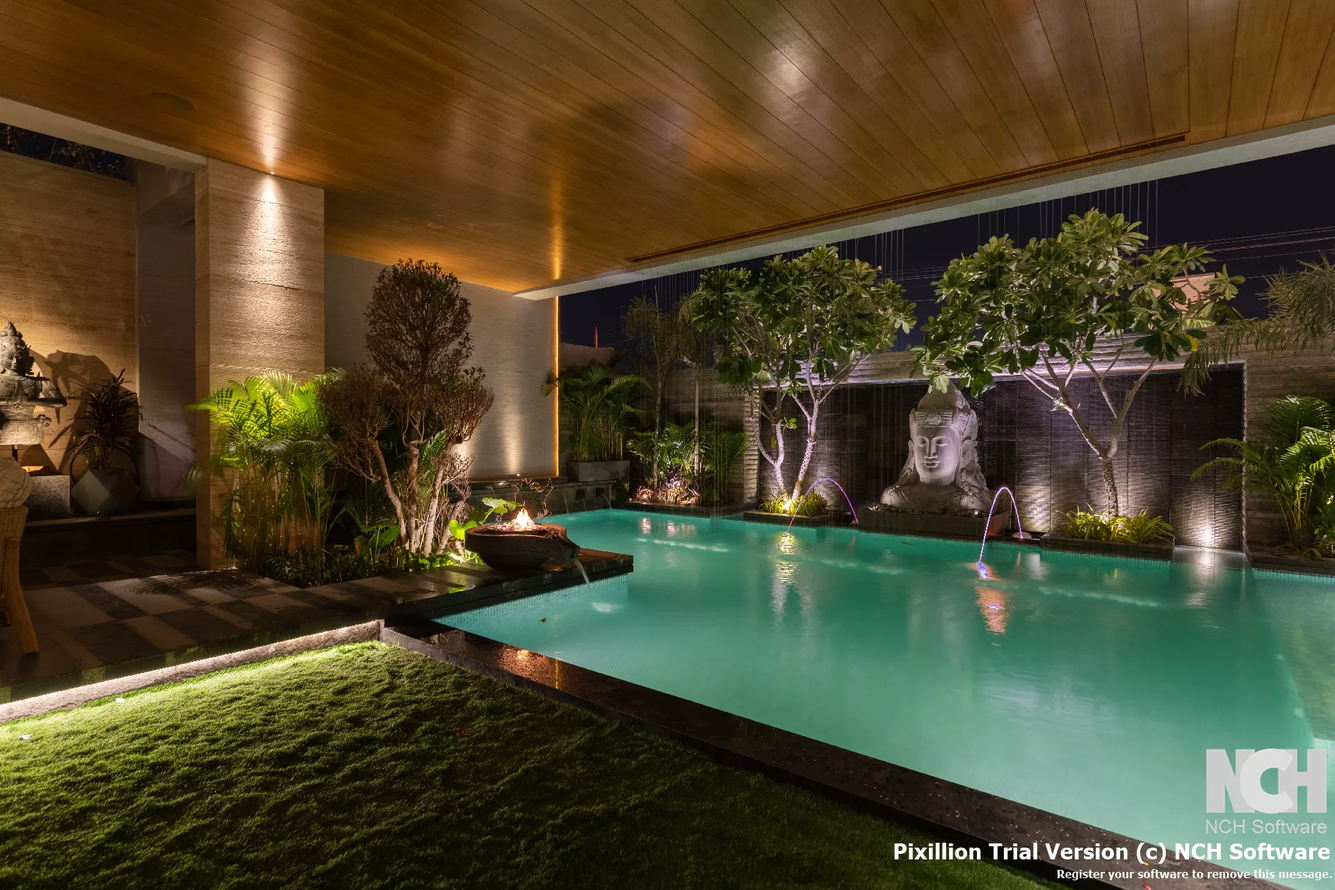
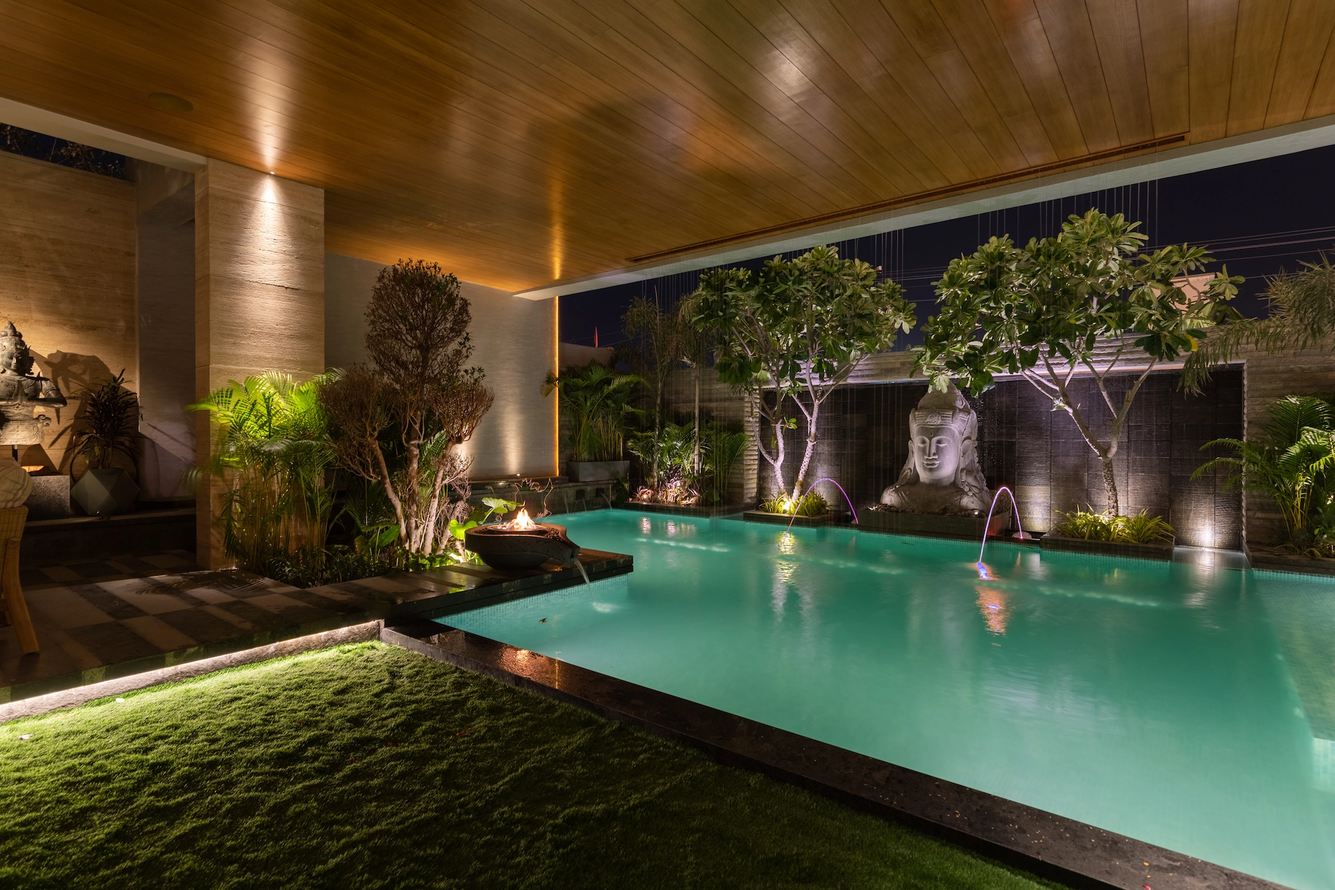
Photos update

diff --git a/components/ProjectsSection.tsx b/components/ProjectsSection.tsx
@@ -15,7 +15,7 @@ const projectData = [
     category: 'Luxury Residences', 
     status: 'Completed',
     description: 'A masterclass in spatial fluidity, this residence blurs the boundaries between interior sanctuaries and curated exterior landscapes. Native planting and climate-responsive shading ensure a serene, timeless habitat.',
-    image: "/images/projects/Elysian Heaven (1).webp",
+    image: "/images/projects/Elysian Heaven (2).webp",
   },
   { 
     title: 'Classic Oasis', 
@@ -23,7 +23,7 @@ const projectData = [
     category: 'Luxury Residences', 
     status: 'Completed',
     description: 'Rooted in classical proportions, this dwelling orchestrates a dialogue between monumental materiality and delicate softscapes. Water features and indigenous flora create a deeply restorative environment.',
-    image: 'https://images.unsplash.com/photo-1600210492486-724fe5c67fb0?q=80&w=2574&auto=format&fit=crop',
+    image: "/images/projects/Classic Oasis (21).webp",
   },
   { 
     title: 'Opulent Nest', 
@@ -31,7 +31,7 @@ const projectData = [
     category: 'Luxury Residences', 
     status: 'Completed',
     description: 'An exploration of refined tactility and light, where expansive glazing invites the surrounding ecology into the living experience. The design champions passive cooling and seamless indoor-outdoor integration.',
-    image: 'https://images.unsplash.com/photo-1512917774080-9991f1c4c750?q=80&w=2670&auto=format&fit=crop',
+    image: "/images/projects/Opulent Nest (5).webp",
   },
   { 
     title: 'Cultural Elegance Residency', 
@@ -39,7 +39,7 @@ const projectData = [
     category: 'Luxury Residences', 
     status: 'Completed',
     description: 'Drawing from regional heritage, this residence employs local sandstone and intricate privacy veils to temper the harsh desert sun. The resulting microclimate is a sanctuary of cool, shaded tranquility.',
-    image: 'https://images.unsplash.com/photo-1618221195710-dd6b41faaea6?q=80&w=2500&auto=format&fit=crop',
+    image: "/images/projects/Cultural Elegance Residency (24).webp",
   },
   { 
     title: 'Classical Grandeur', 
@@ -47,7 +47,7 @@ const projectData = [
     category: 'Luxury Residences', 
     status: 'Completed',
     description: 'A stately composition of formal gardens and architectural symmetry, designed to age gracefully alongside its inhabitants. The landscape acts as a living canvas, shifting with the seasonal rhythms.',
-    image: 'https://images.unsplash.com/photo-1564013799919-ab600027ffc6?q=80&w=2670&auto=format&fit=crop',
+    image: "/images/projects/Classical Grandeur (5).webp",
   },
   { 
     title: 'Grand Colonnade', 
@@ -55,7 +55,7 @@ const projectData = [
     category: 'Luxury Residences', 
     status: 'Completed',
     description: 'Defined by its rhythmic structural bays, this home frames curated vistas of the surrounding terrain. The integration of aquatic elements grounds the built form in a state of profound calm.',
-    image: 'https://images.unsplash.com/photo-1580587771525-78b9dba3b91d?q=80&w=2574&auto=format&fit=crop',
+    image: "/images/projects/Grand Colonnade (10).webp",
   },
   { 
     title: 'The Floating Foyer', 
@@ -63,7 +63,7 @@ const projectData = [
     category: 'Luxury Residences', 
     status: 'Completed',
     description: 'An architectural illusion where the entrance pavilion appears to hover above reflective pools. The design leverages cross-ventilation and biophilic principles to curate a restorative human experience.',
-    image: 'https://images.unsplash.com/photo-1600607687931-cebf0746e50e?q=80&w=2670&auto=format&fit=crop',
+    image: "/images/projects/The Floating Foyer (1).webp",
   },
   { 
     title: 'Blossom Ridge', 
@@ -71,7 +71,7 @@ const projectData = [
     category: 'Private Estates', 
     status: 'Completed',
     description: 'A sprawling estate that embraces the natural topography, weaving built interventions seamlessly into the existing flora. The landscape strategy prioritizes biodiversity and ecological resilience.',
-    image: 'https://images.unsplash.com/photo-1588880331179-bc9b93a8cb65?q=80&w=2670&auto=format&fit=crop',
+    image: "/images/projects/blossom-ridge (5).webp",
   },
   { 
     title: 'Regalia Oasis', 
@@ -79,7 +79,7 @@ const projectData = [
     category: 'Private Estates', 
     status: 'Completed',
     description: 'Conceived as a private retreat, this estate utilizes dense native planting to create a secluded, immersive environment. The material palette reflects the earthy tones of the regional landscape.',
-    image: 'https://images.unsplash.com/photo-1599809275671-b5942cabc7a2?q=80&w=2670&auto=format&fit=crop',
+    image: "/images/projects/regalia-oasis (27).webp",
   },
   { 
     title: 'Glass Haven', 
@@ -87,7 +87,7 @@ const projectData = [
     category: 'Private Estates', 
     status: 'Completed',
     description: 'A transparent pavilion set within a lush, curated wilderness, dissolving the visual barriers between shelter and nature. The design is a testament to climate-responsive luxury and spatial purity.',
-    image: 'https://images.unsplash.com/photo-1600566753086-00f18efc2065?q=80&w=2670&auto=format&fit=crop',
+    image: "/images/projects/glass-haven (9).webp",
   },
   { 
     title: 'Vrindavan Township', 
